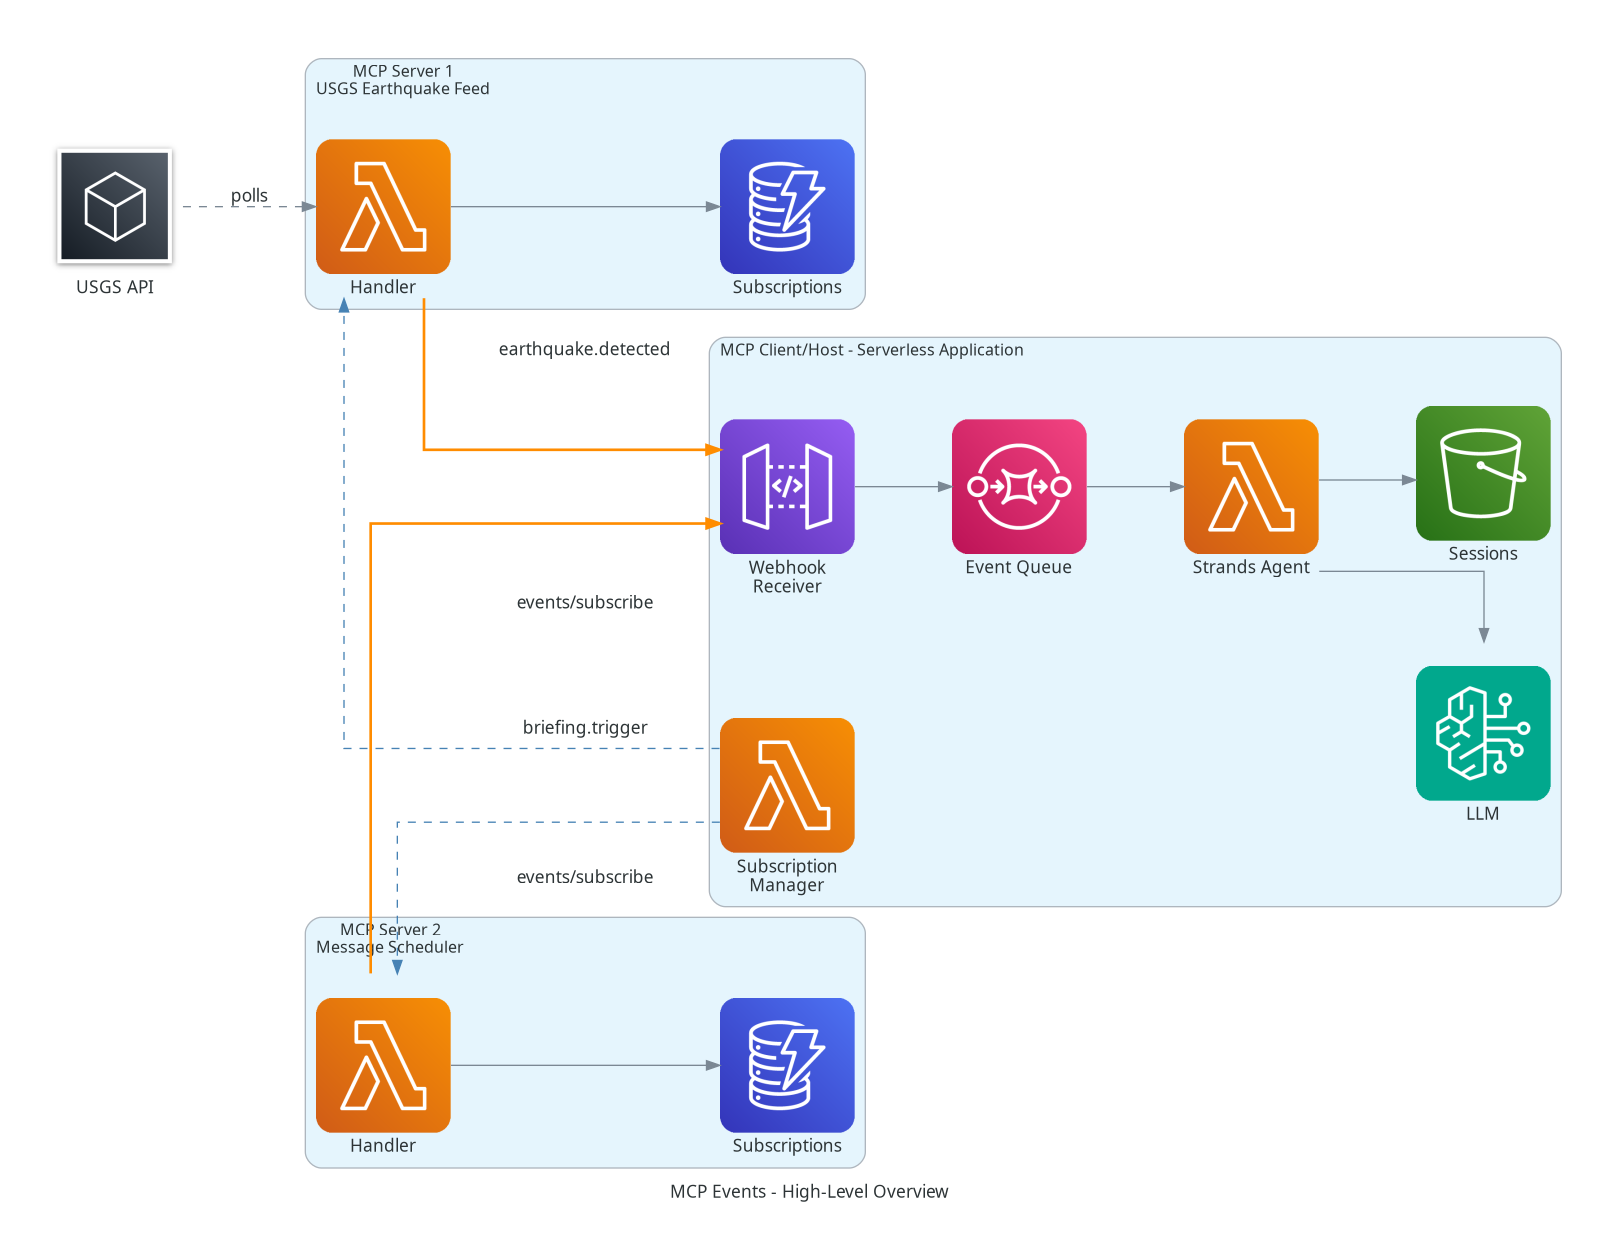
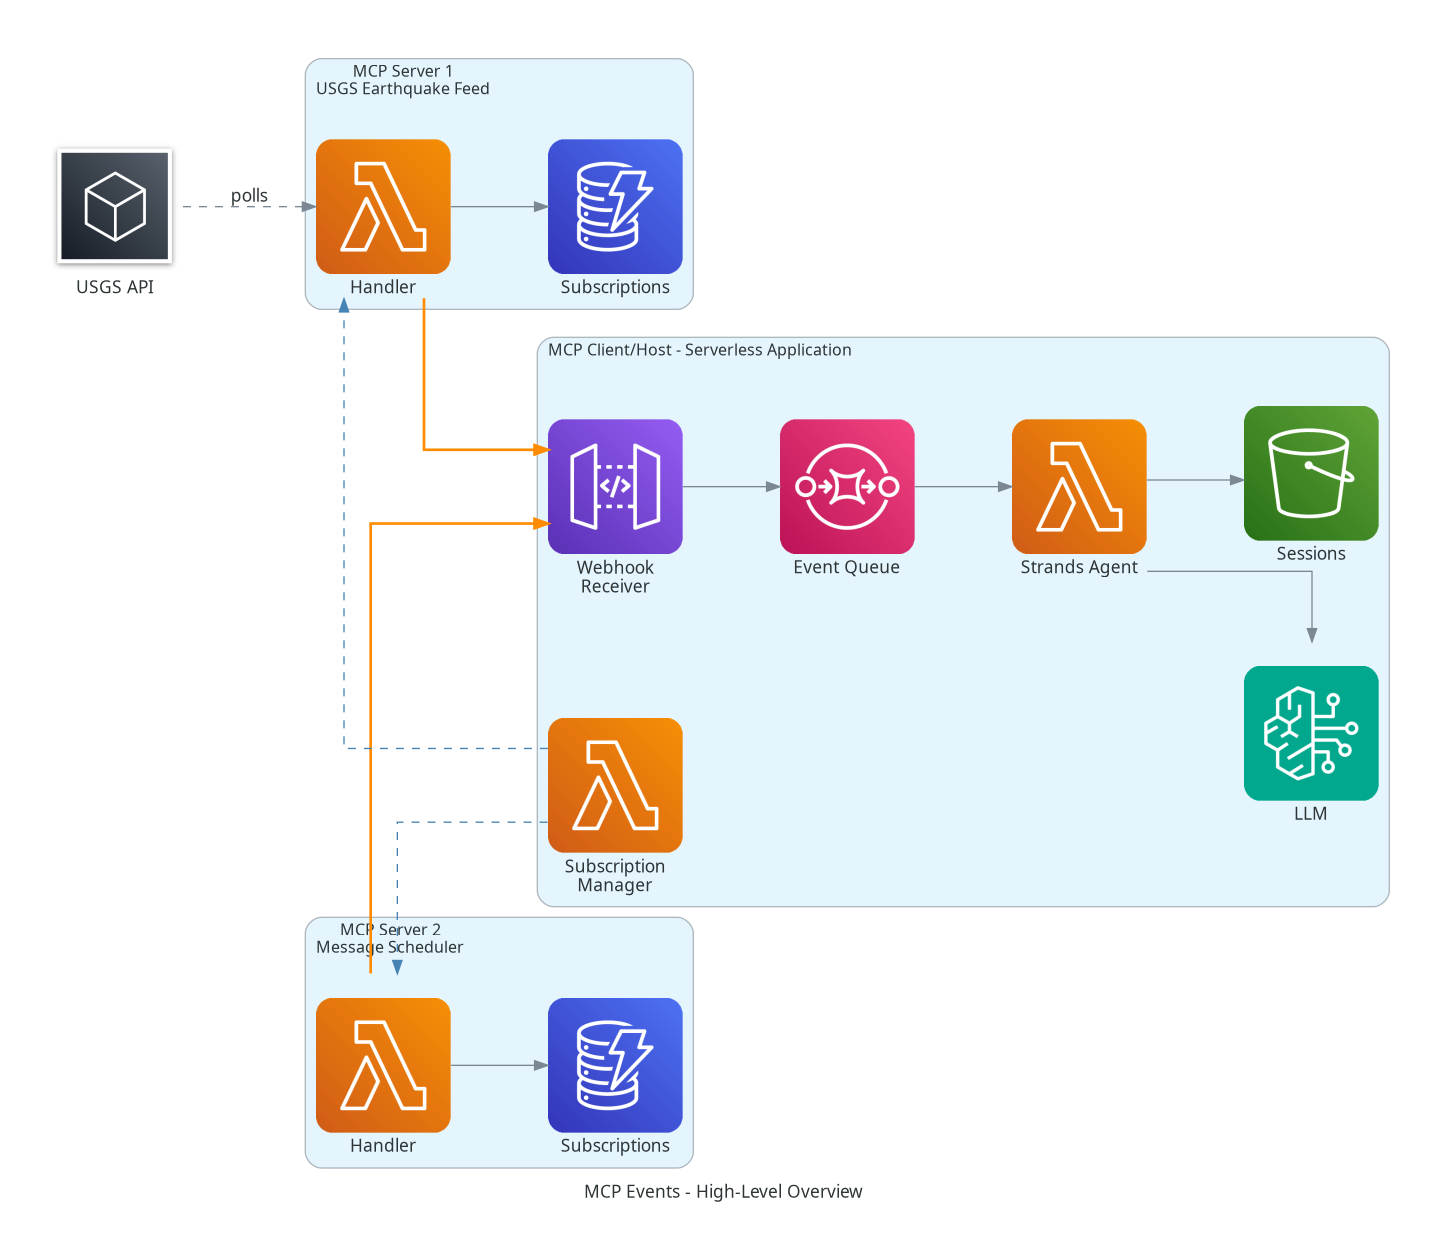
Remove edge labels from overview diagram to reduce visual clutter
The prose already explains what flows between components. Labels are
kept on diagrams 2 and 3 where they have more space.

diff --git a/generate-diagrams.py b/generate-diagrams.py
@@ -54,12 +54,12 @@ with Diagram(
     usgs >> Edge(style="dashed", label="polls") >> s1_lambda
     s1_lambda >> s1_ddb
 
-    s1_lambda >> Edge(color="darkorange", style="bold", label="earthquake.detected") >> receiver
-    s2_lambda >> Edge(color="darkorange", style="bold", label="briefing.trigger") >> receiver
+    s1_lambda >> Edge(color="darkorange", style="bold") >> receiver
+    s2_lambda >> Edge(color="darkorange", style="bold") >> receiver
     s2_lambda >> s2_ddb
 
-    sub_mgr >> Edge(style="dashed", color="steelblue", label="events/subscribe") >> s1_lambda
-    sub_mgr >> Edge(style="dashed", color="steelblue", label="events/subscribe") >> s2_lambda
+    sub_mgr >> Edge(style="dashed", color="steelblue") >> s1_lambda
+    sub_mgr >> Edge(style="dashed", color="steelblue") >> s2_lambda
 
     receiver >> sqs >> agent
     agent >> bedrock

diff --git a/README.md b/README.md
@@ -6,23 +6,12 @@ agent. The agent has zero running compute until an event arrives: two MCP
 servers deliver events over signed webhooks, which wake a Lambda-hosted Strands
 agent just long enough to process the event and persist its state.
 
-The demo use case is multi-customer earthquake monitoring:
-
-- **MCP Server 1 — USGS Earthquake Feed** polls the USGS GeoJSON feed, detects
-  new earthquakes with cursor-based deduplication, and delivers each one as an
-  `earthquake.detected` event to every subscription whose filter (minimum
-  magnitude, region, max depth) matches.
-- **MCP Server 2 — Message Scheduler** fires a `briefing.trigger` event per
-  customer on that customer's cron schedule (or on demand).
-- A **Strands agent** wakes on each event. The agent's **conversation history is
-  the accumulator**: each earthquake becomes a user message plus an LLM analysis
-  response; each briefing trigger asks the LLM to synthesize the whole
-  conversation into a report via a `save_report` tool.
-
-Each customer has independent subscriptions, an isolated agent session, a custom
-briefing prompt, and their own reports. A SvelteKit webapp lets customers
-self-service their configuration and read their reports and conversation
-history.
+The demo use case is multi-customer earthquake monitoring. Each customer
+configures their own filters (minimum magnitude, geographic region, max depth)
+and briefing schedule. The agent accumulates earthquake observations in its
+conversation history and periodically synthesizes them into a briefing report.
+A SvelteKit webapp lets customers self-service their configuration and read
+their reports and conversation history.
 
 > This is sample/demo code intended to illustrate the MCP Events extension and a
 > wake/sleep serverless agent pattern. It is not production-hardened.
@@ -36,6 +25,23 @@ The system has three components, grouped by their MCP role:
 - **External systems** — USGS API, Amazon Bedrock
 
 <img src="diagrams/1-overview.png" alt="High-level overview" width="700">
+
+The two MCP servers (left) deliver events to the client application (right) via
+signed webhooks (solid orange arrows). The client's Subscription Manager
+maintains those subscriptions by periodically calling `events/subscribe` on each
+server (dashed blue arrows). Inside the client, events flow through a Webhook
+Receiver → SQS queue → Strands Agent pipeline, with the agent invoking Bedrock
+for LLM analysis and persisting conversation state to S3.
+
+- **MCP Server 1 — USGS Earthquake Feed** polls the USGS GeoJSON feed, detects
+  new earthquakes with cursor-based deduplication, and delivers each one as an
+  `earthquake.detected` event to every subscription whose filter matches.
+- **MCP Server 2 — Message Scheduler** fires a `briefing.trigger` event per
+  customer on that customer's cron schedule (or on demand).
+- The **Strands agent** wakes on each event. Its **conversation history is
+  the accumulator**: each earthquake becomes a user message plus an LLM analysis
+  response; each briefing trigger asks the LLM to synthesize the whole
+  conversation into a report via a `save_report` tool.
 
 ### Event delivery
 
@@ -58,14 +64,6 @@ for the briefing trigger, and a client-generated `whsec_` signing secret for
 each subscription.
 
 <img src="diagrams/3-subscriptions.png" alt="Subscription management" width="500">
-
-### How the agent processes events
-
-The agent's **conversation history is the accumulator**: each earthquake becomes
-a user message + LLM analysis response. On a briefing trigger, the LLM
-synthesizes the full conversation into a report via a `save_report` tool call.
-Each customer has an isolated session in S3, a distributed lock for write
-serialization, and their own reports.
 
 ## Getting started
 
